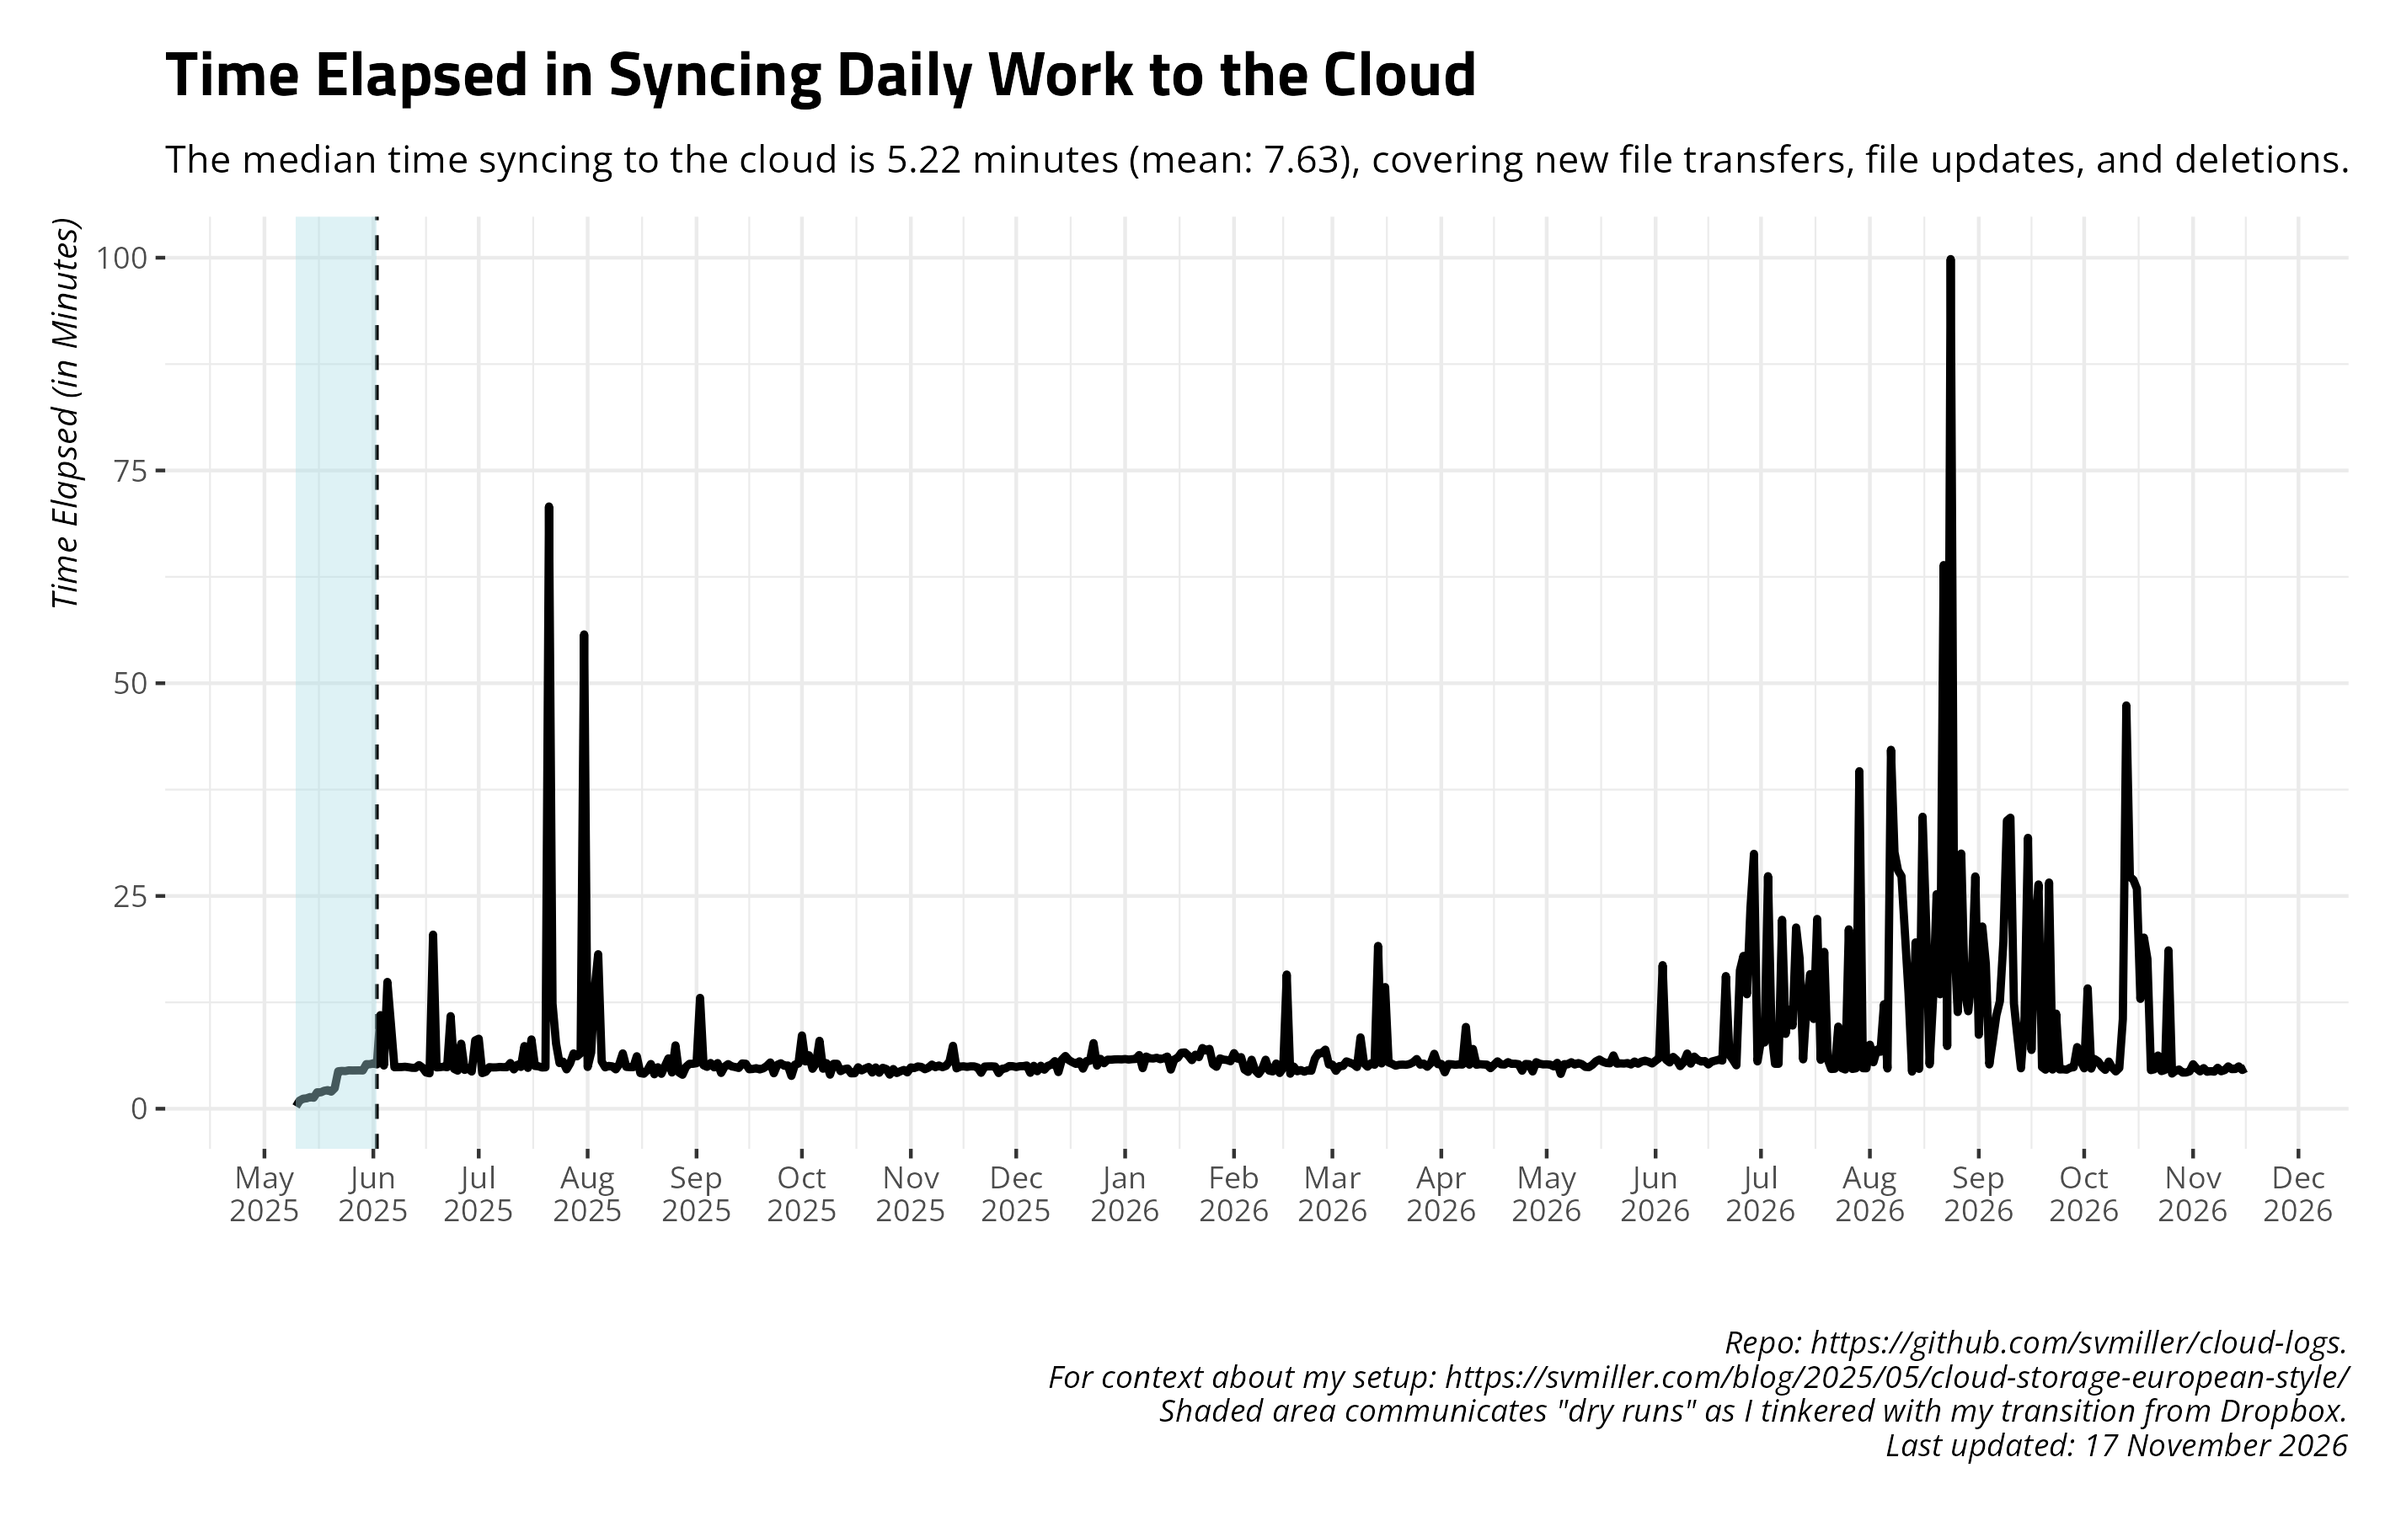
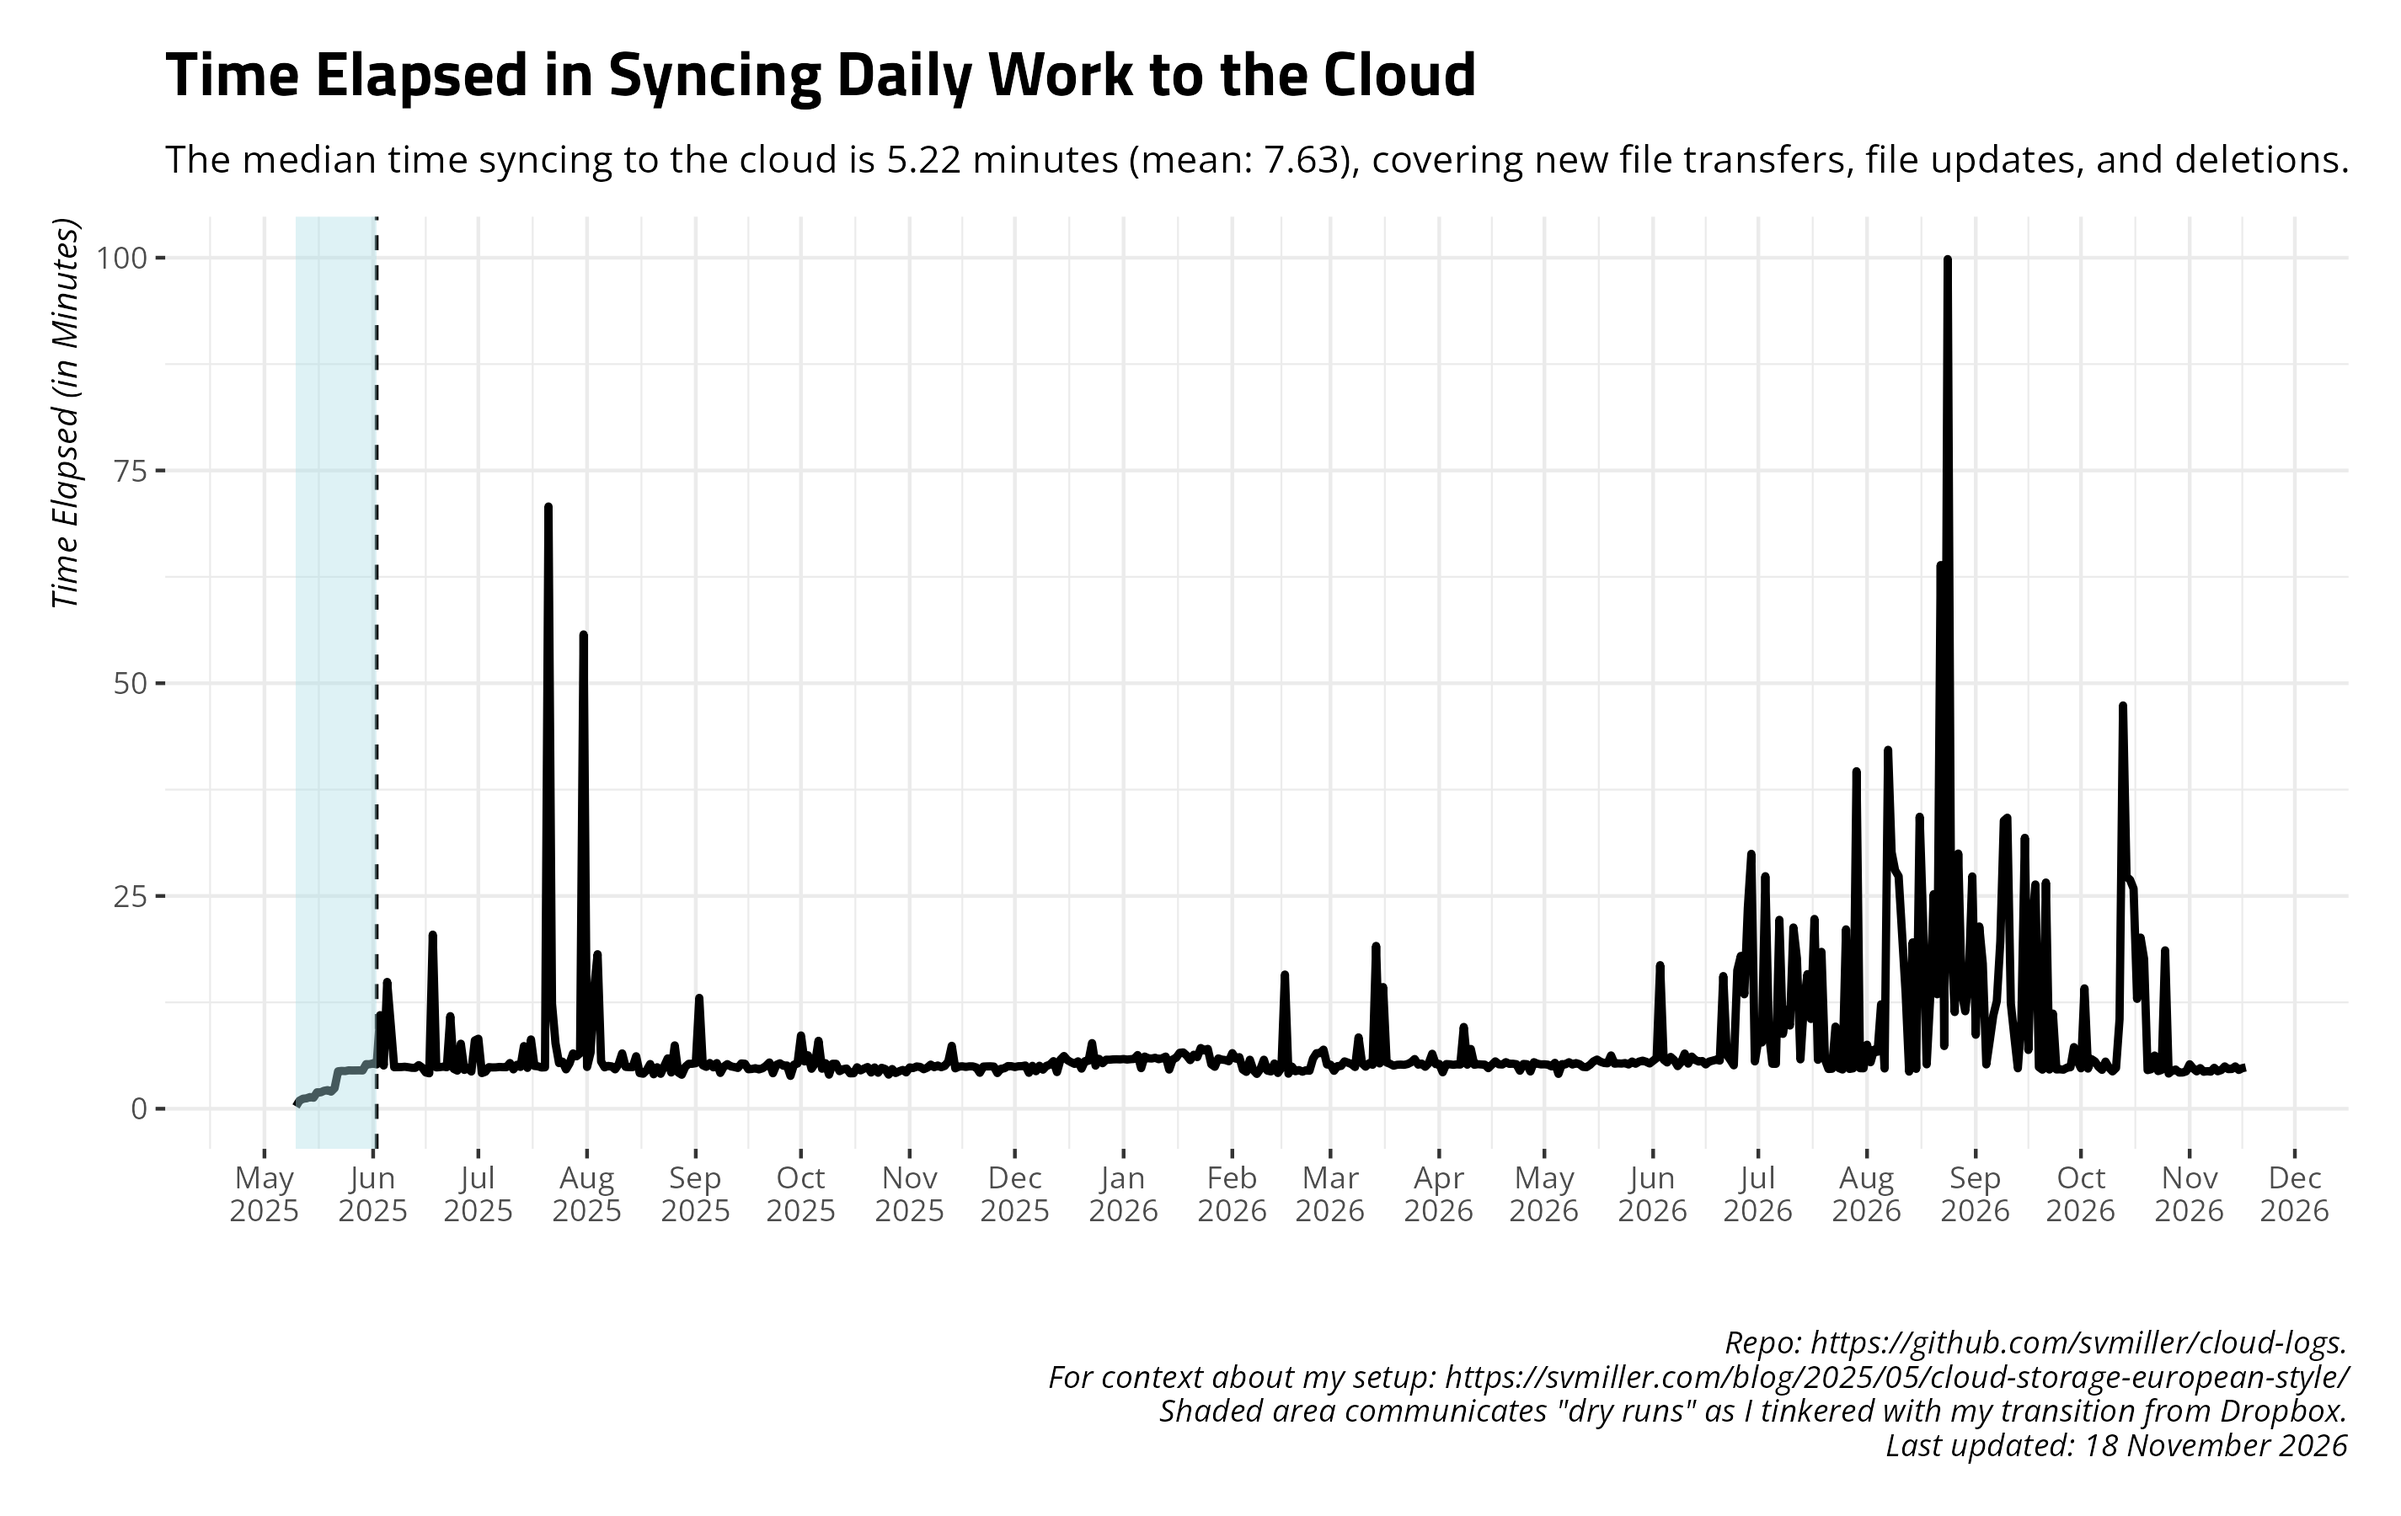
Date: 2026-11-18 09:00:38. Hi mom!

diff --git a/README.md b/README.md
@@ -27,17 +27,17 @@ and uploads to Github.
     #> # A tibble: 14 × 4
     #>    date       ftransfer stransfer   elapsed
     #>    <date>         <dbl> <chr>       <chr>  
-    #>  1 2026-11-03        89 3.941 MiB   4m23.4s
-    #>  2 2026-11-04       380 74.847 MiB  4m46.3s
-    #>  3 2026-11-05        57 3.487 MiB   4m20.8s
-    #>  4 2026-11-06        45 1.664 MiB   4m24.8s
-    #>  5 2026-11-07        30 74.959 KiB  4m21.4s
-    #>  6 2026-11-08       632 13.017 MiB  4m48.5s
-    #>  7 2026-11-09        34 136.311 KiB 4m24.1s
-    #>  8 2026-11-10       112 2.557 MiB   4m32.5s
-    #>  9 2026-11-11       468 5.815 MiB   4m58.3s
-    #> 10 2026-11-12       216 4.728 MiB   4m39.3s
-    #> 11 2026-11-13       335 8.642 MiB   4m40.1s
-    #> 12 2026-11-14       185 2.590 MiB   4m58.3s
-    #> 13 2026-11-15        14 25.928 KiB  4m33.2s
-    #> 14 2026-11-16        38 374.343 KiB 4m45.9s
+    #>  1 2026-11-04       380 74.847 MiB  4m46.3s
+    #>  2 2026-11-05        57 3.487 MiB   4m20.8s
+    #>  3 2026-11-06        45 1.664 MiB   4m24.8s
+    #>  4 2026-11-07        30 74.959 KiB  4m21.4s
+    #>  5 2026-11-08       632 13.017 MiB  4m48.5s
+    #>  6 2026-11-09        34 136.311 KiB 4m24.1s
+    #>  7 2026-11-10       112 2.557 MiB   4m32.5s
+    #>  8 2026-11-11       468 5.815 MiB   4m58.3s
+    #>  9 2026-11-12       216 4.728 MiB   4m39.3s
+    #> 10 2026-11-13       335 8.642 MiB   4m40.1s
+    #> 11 2026-11-14       185 2.590 MiB   4m58.3s
+    #> 12 2026-11-15        14 25.928 KiB  4m33.2s
+    #> 13 2026-11-16        38 374.343 KiB 4m45.9s
+    #> 14 2026-11-17       412 4.001 MiB   4m51.4s
